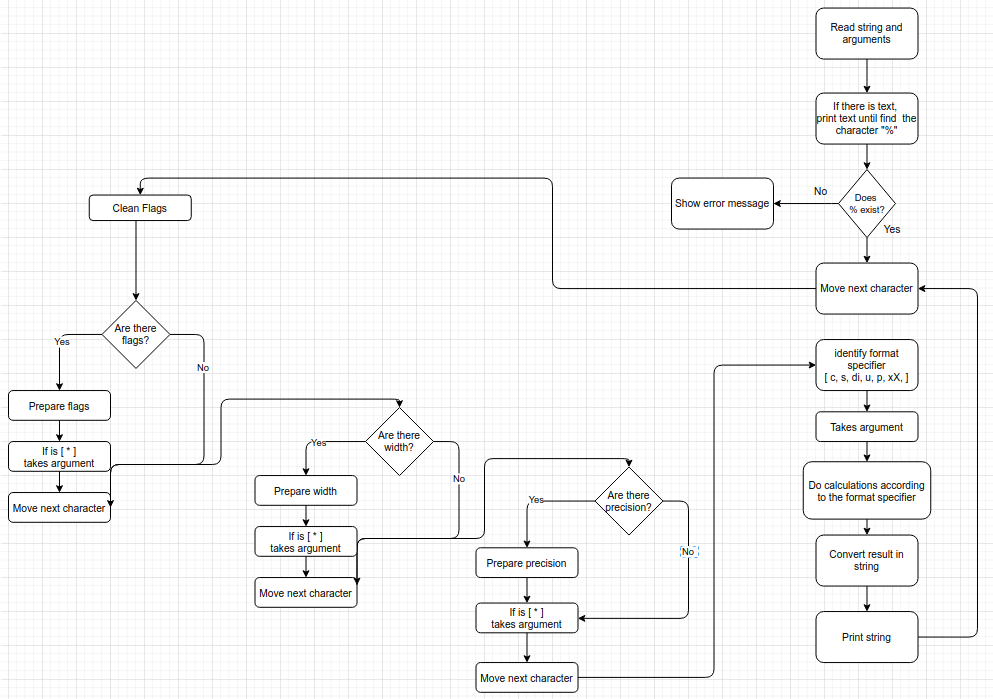
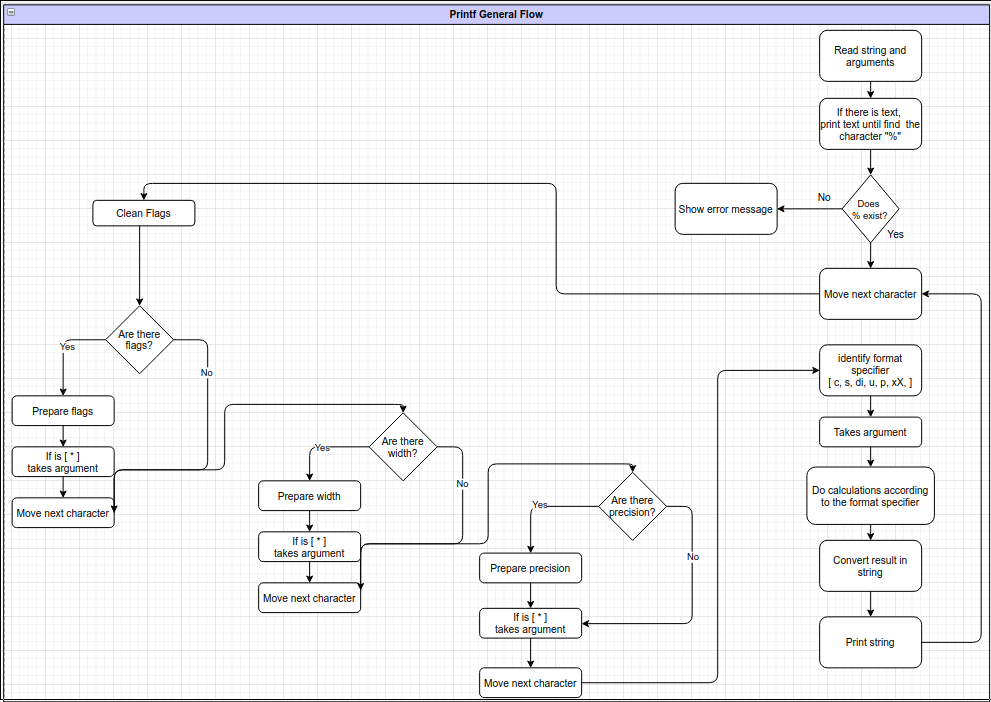
adding fe image

Changed region(s): [[0.0, 0.0, 1.0, 1.0], [0.0605, 0.4807, 0.0908, 0.5107]]

diff --git a/README.md b/README.md
@@ -1,7 +1,6 @@
 # :palm_tree:  ft_printf
 
-### Info:
-Write a library that contains ft_printf, a function
+Library that contains ft_printf, a function
 that will mimic the real printf, It will manage the following conversions: cspdiuxX%
 
 ### Printf Workflow
@@ -11,6 +10,14 @@ that will mimic the real printf, It will manage the following conversions: cspdi
 
 
 See workflow about each format specifier  [HERE](https://drive.google.com/file/d/1zPrMQ2q4wuR16TWdBtKlLVVquNKdpGmb/view?usp=sharing)
+
+
+##  Format Specifiers
+![Format Specifiers](img/format_specifiers.png)
+
+## Context
+
+**[ flags ] [ width ] [ precision ]**
 
 ## Compilation
 ```bash
@@ -53,6 +60,7 @@ gui
 - https://docs.google.com/document/d/1znc7N5ua3WC1PhGcirRhtadHYSrPK3wxTApMdlJXYes/edit?pli=1#
 - https://www.cplusplus.com/reference/cstdio/printf/
 - https://www.cypress.com/file/54441/download
+- http://www.cplusplus.com/reference/cstdio/printf/
 
 ## Norminette
 
